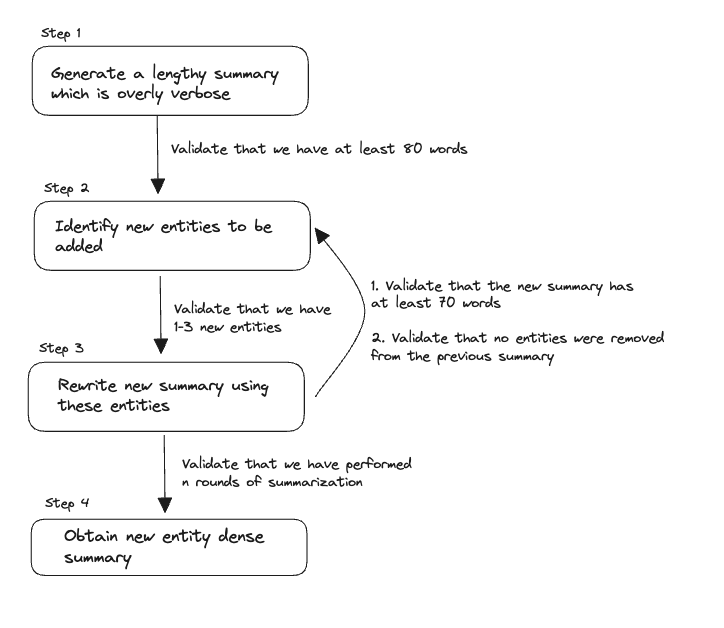
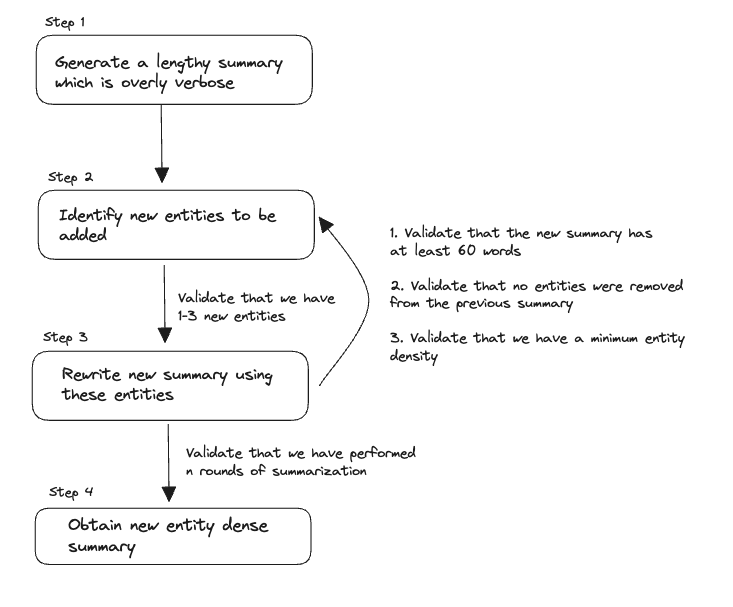
Fixed up new validator and updated article with benchmarks

diff --git a/examples/chain-of-density/chain_of_density.py b/examples/chain-of-density/chain_of_density.py
@@ -3,8 +3,10 @@ from typing import List
 import instructor
 import nltk
 from openai import OpenAI
+import spacy
 
 client = instructor.patch(OpenAI())
+nlp = spacy.load("en_core_web_sm")
 
 
 class InitialSummary(BaseModel):
@@ -47,10 +49,28 @@ class RewrittenSummary(BaseModel):
     )
 
     @field_validator("summary")
+    def min_entity_density(cls, v: str):
+        # We want to make sure we have a minimum density of 0.12 whenever we do a rewrite. This ensures that the summary quality is always going up
+        tokens = nltk.word_tokenize(v)
+        num_tokens = len(tokens)
+
+        # Extract Entities
+        doc = nlp(v)
+        num_entities = len(doc.ents)
+
+        density = num_entities / num_tokens
+        if density < 0.08:
+            raise ValueError(
+                f"The summary of {v} has too few entities. Please regenerate a new summary with more new entities added to it. Remember that new entities can be added at any point of the summary."
+            )
+
+        return v
+
+    @field_validator("summary")
     def min_length(cls, v: str):
         tokens = nltk.word_tokenize(v)
         num_tokens = len(tokens)
-        if num_tokens < 75:
+        if num_tokens < 60:
             raise ValueError(
                 "The current summary is too short. Please make sure that you generate a new summary that is around 80 words long."
             )
@@ -84,7 +104,7 @@ def summarize_article(article: str, summary_steps: int = 3):
         messages=[
             {
                 "role": "system",
-                "content": "Write a summary about the article that is long (4-5 sentences) yet highly non-specific. Use overly, verbose language and fillers(eg.,'this article discusses') to reach ~80 words",
+                "content": "Write a summary about the article that is long (4-5 sentences) yet highly non-specific. Use overly, verbose language and fillers(eg.,'this article discusses') to reach ~80 words. ",
             },
             {"role": "user", "content": f"Here is the Article: {article}"},
             {
@@ -94,25 +114,15 @@ def summarize_article(article: str, summary_steps: int = 3):
         ],
         max_retries=2,
     )
-    prev_summary = None
     summary_chain.append(summary.summary)
     for i in range(summary_steps):
-        missing_entity_message = (
-            []
-            if prev_summary is None
-            else [
-                {
-                    "role": "user",
-                    "content": f"Please include these Missing Entities: {','.join(prev_summary.missing)}",
-                },
-            ]
-        )
         new_summary: RewrittenSummary = client.chat.completions.create(
             model="gpt-4-0613",
             messages=[
                 {
                     "role": "system",
-                    "content": """
+                    "content": f"""
+                Article: {article}
                 You are going to generate an increasingly concise,entity-dense summary of the following article.
 
                 Perform the following two tasks
@@ -127,18 +137,15 @@ def summarize_article(article: str, summary_steps: int = 3):
                 - Never drop entities from the previous summary. If space cannot be made, add fewer new entities.
                 """,
                 },
-                {"role": "user", "content": f"Here is the Article: {article}"},
                 {
                     "role": "user",
                     "content": f"Here is the previous summary: {summary_chain[-1]}",
                 },
-                *missing_entity_message,
             ],
-            max_retries=3,
+            max_retries=5,
             max_tokens=1000,
             response_model=RewrittenSummary,
         )
         summary_chain.append(new_summary.summary)
-        prev_summary = new_summary
 
     return summary_chain

diff --git a/examples/chain-of-density/finetune.py b/examples/chain-of-density/finetune.py
@@ -3,19 +3,36 @@ from chain_of_density import summarize_article
 import csv
 import logging
 import instructor
-from pydantic import BaseModel
+from pydantic import BaseModel, Field
 
 logging.basicConfig(level=logging.INFO)
 
 instructions = instructor.Instructions(
     name="Chain Of Density",
     finetune_format="messages",
-    log_handlers=[logging.FileHandler("summarization.jsonl")],
+    # log handler is used to save the data to a file
+    # you can imagine saving it to a database or other storage
+    # based on your needs!
+    log_handlers=[logging.FileHandler("generated.jsonl")],
 )
 
 
 class GeneratedSummary(BaseModel):
-    summary: str
+    """
+    This represents a highly concise summary that includes as many entities as possible from the original source article.
+
+    An Entity is a real-world object that's assigned a name - for example, a person, country a product or a book title.
+
+    Guidelines
+    - Make every word count
+    - The new summary should be highly dense and concise yet self-contained, eg., easily understood without the Article.
+    - Make space with fusion, compression, and removal of uninformative phrases like "the article discusses"
+    """
+
+    summary: str = Field(
+        ...,
+        description="This represents the final summary generated that captures the meaning of the original article which is as concise as possible. ",
+    )
 
 
 @instructions.distil
@@ -24,7 +41,6 @@ def distil_summarization(text: str) -> GeneratedSummary:
     return GeneratedSummary(summary=summary_chain[-1])
 
 
-# Read in the csv file we have
 with open("test.csv", "r") as file:
     reader = csv.reader(file)
     next(reader)  # Skip the header

diff --git a/docs/blog/posts/chain-of-density.md b/docs/blog/posts/chain-of-density.md
@@ -17,7 +17,7 @@ authors:
 
 > Discover how to distil an interative method like chain of density into a single finetune.
 
-In this article, we'll guide you through implementing the original Chain of Density method using Instructor, then show how to distile a GPT 3.5 model to match GPT-4's iterative summarization capabilities. Using these methods were able to increase latency by 40x, reduce costs by 10x and maintain entity density. Showing massive efficiency gains by finetuning and distiling capabilities into specialized models.
+In this article, we'll guide you through implementing the original Chain of Density method using Instructor, then show how to distile a GPT 3.5 model to match GPT-4's iterative summarization capabilities. Using these methods were able to increase latency by 20x, reduce costs by 50x and maintain entity density. 
 
 By the end you'll end up with a GPT 3.5 model, (fine-tuned using Instructor's great tooling), capable of producing summaries that rival the effectiveness of Chain of Density. As always, all code is readily available in our `examples/chain-of-density` folder in our repo for your reference.
 
@@ -35,7 +35,7 @@ First introduced by Salesforce's AI Research wing in their paper - [From Sparse 
 
 ??? info "Implementation Details"
 
-    Note that our implementation uses a validator to ensure that the rewritten summary has a minimum length rather than a prompt. As a result, we match the original paper on entity count but not entity density.
+    Note that our implementation uses a validator to ensure that the rewritten summary has a minimum length rather than a prompt. We also perform just 3 and not 5 rounds of rewrites, resulting in a lower final entity density.
 
 ### Original Prompt
 
@@ -153,14 +153,19 @@ class RewrittenSummary(BaseModel):
     library, we recommend checking out our previous article on LLM
     validation - [Good LLM Validation is just Good Validation](/instructor/blog/2023/10/23/good-llm-validation-is-just-good-validation/)
 
-Ideally, we'd like for `Missing` to have a length between 1 and 3, `Absent` to be an empty list and for our summary to be around 80 tokens. With `Instructor`, we can implement this logic using native `Pydantic` validators that are simply declared as part of the class itself.
+Ideally, we'd like for `Missing` to have a length between 1 and 3, `Absent` to be an empty list and for our rewritten summaries to keep a minimum entity density. With `Instructor`, we can implement this logic using native `Pydantic` validators that are simply declared as part of the class itself.
 
-```py hl_lines="3"
+```py hl_lines="8 40 44"
+import nltk
+import spacy
+
+nlp = spacy.load("en_core_web_sm")
+
 @field_validator("summary")
 def min_length(cls, v: str):
     tokens = nltk.word_tokenize(v) #(1)!
     num_tokens = len(tokens)
-    if num_tokens < 75:
+    if num_tokens < 60:
         raise ValueError(
             "The current summary is too short. Please make sure that you generate a new summary that is around 80 words long."
         )
@@ -183,10 +188,31 @@ def has_no_absent_entities(cls, absent_entities: List[str]):
             f"Do not omit the following Entities {absent_entity_string} from the new summary"
         )
     return absent_entities
+
+@field_validator("summary")
+    def min_entity_density(cls, v: str):
+        tokens = nltk.word_tokenize(v)
+        num_tokens = len(tokens)
+
+        # Extract Entities
+        doc = nlp(v) #(2)!
+        num_entities = len(doc.ents)
+
+        density = num_entities / num_tokens
+        if density < 0.08: #(3)!
+            raise ValueError(
+                f"The summary of {v} has too few entities. Please regenerate a new summary with more new entities added to it. Remember that new entities can be added at any point of the summary."
+            )
+
+        return v
 ```
 
 1.  Similar to the original paper, we utilize the `NLTK` word tokenizer to count the number of tokens within our generated sentences.
-    We aim for at least 75 tokens in our generated summary so that we don't lose information.
+    We aim for at least 60 tokens in our generated summary so that we don't lose information.
+
+2.  We also use the spaCy library to calculate the entity density of the generated summary. 
+
+3.  We also implement a minimum entity density so that we stay within a given range. 0.08 is arbitrarily chosen in this case
 
 ### Putting it all Together
 
@@ -257,7 +283,7 @@ def summarize_article(article: str, summary_steps: int = 3):
                 },
                 *missing_entity_message,
             ],
-            max_retries=3,
+            max_retries=3, #(4)!
             max_tokens=1000,
             response_model=RewrittenSummary,
         )
@@ -278,6 +304,8 @@ def summarize_article(article: str, summary_steps: int = 3):
 3.  We slightly modify the original system prompt used in the original paper to perform a rewrite of the summary.
     Using `Instructor`, we also get validation of the generated output with our `field_validator`s that we defined above
 
+4.  If you've chosen a value that is larger than 0.08, make sure to increase this value in case you need to do multiple rewrites
+
 This summarization function yields a result which triples the number of entities while mantaining the same number of tokens. We can also see that stylistically, the summary is a lot more natural.
 
 **First Iteration**
@@ -296,20 +324,17 @@ In this section, we'll look into how to fine-tune a GPT 3.5 model so that it is 
 
 Let's first segregate our train and test set so that we don't have any sort of contamination - this corresponds to our `train.csv` and `test.csv` in our [Hugging Face Dataset](https://huggingface.co/datasets/ivanleomk/gpt4-chain-of-density). Now, we just need to import the `Instructions` module from the `Instructor` package which allows you to generate a nicely formatted `.jsonl` file to be used for fine-tuning
 
-```py hl_lines="2 9 13-20 25 28"
+```py hl_lines="2 9 11-18 37 40"
 from typing import List
 from chain_of_density import summarize_article #(1)!
 import csv
 import logging
 import instructor
-from itertools import islice
 from pydantic import BaseModel
 
-client = instructor.patch(OpenAI())
+logging.basicConfig(level=logging.INFO) #(2)!
 
-logging.basicConfig(level=logging.INFO)
-
-instructions = instructor.Instructions( #(2)!
+instructions = instructor.Instructions( #(3)!
     name="Chain Of Density",
     finetune_format="messages",
     # log handler is used to save the data to a file
@@ -319,17 +344,31 @@ instructions = instructor.Instructions( #(2)!
 )
 
 class GeneratedSummary(BaseModel):
-    summary: str
+    """
+    This represents a highly concise summary that includes as many entities as possible from the original source article.
 
-@instructions.distil #(3)!
+    An Entity is a real-world object that's assigned a name - for example, a person, country a product or a book title.
+
+    Guidelines
+    - Make every word count
+    - The new summary should be highly dense and concise yet self-contained, eg., easily understood without the Article.
+    - Make space with fusion, compression, and removal of uninformative phrases like "the article discusses"
+    """
+
+    summary: str = Field(
+        ...,
+        description="This represents the final summary generated that captures the meaning of the original article which is as concise as possible. ",
+    )
+
+@instructions.distil #(4)!
 def distil_summarization(text: str) -> GeneratedSummary:
     summary_chain: List[str] = summarize_article(text)
-    return GeneratedSummary(summary=summary_chain[-1]) #(4)!
+    return GeneratedSummary(summary=summary_chain[-1]) #(5)!
 
 with open("train.csv", "r") as file:
     reader = csv.reader(file)
     next(reader)  # Skip the header
-    for index, (article, summary) in enumerate(reader):
+    for article, summary in reader:
         # Run Distillisation to generate the values
         distil_summarization(article)
 ```
@@ -337,13 +376,15 @@ with open("train.csv", "r") as file:
 1.  In this example, we're using the summarize_article that we defined up above. We saved it in a local file called `chain_of_density.py`,
     hence the import
 
-2.  We instantiate a `Instruction` object which will help us handle the conversion of our function calls into a valid `.jsonl` file. We also define
+2. We also need to configure logging at the `INFO` level. This is very important, if this is not configured, your output will not be generated.
+
+3.  We instantiate a `Instruction` object which will help us handle the conversion of our function calls into a valid `.jsonl` file. We also define
     the name of the `.jsonl` file in the `log_handlers` parameter
 
-3.  We add in an `instructions.distil` annotation so that we automatically capture the input and output of the function we'd like to
+4.  We add in an `instructions.distil` annotation so that we automatically capture the input and output of the function we'd like to
     fine-tune our model to output
 
-4.  We return a `Pydantic` object which matches the annotation that we use on our function. Note that we must specify a `Pydantic` object to
+5.  We return a `Pydantic` object which matches the annotation that we use on our function. Note that we must specify a `Pydantic` object to
     be returned when using the `instructions.distil` annotation
 
 !!! warning "Rate Limiting"
@@ -380,7 +421,7 @@ With that, you've now got your own fine-tuned model ready to go and serve data i
 
 ## Results and Benchmarks
 
-We fine-tuned a total of 3 different models, giving each 20, 50 and 100 samples respectively to see if more data improved the models. We then compared the output of these fine tuned models to GPT-4 and the newly released GPT-4-Turbo to see how they match up.
+We fine-tuned a total of 3 different models, giving each 20, 50 and 76 samples respectively to see if more data improved the models. We then compared the output of these fine tuned models to GPT-4 and GPT-3 summaries that were generated using chain-of-density methods.
 
 We'll be comparing these models in three main ways
 
@@ -392,26 +433,35 @@ We used a total of 20 articles as a validation set which our fine tuned models h
 
 | Model               | Mean Latency (s) | Mean Entity Count | Mean Entity Density | Tokens |
 | ------------------- | ---------------- | ----------------- | ------------------- | ------ |
-| GPT-4               | 87.2             | 10.15             | 0.116               | 86.65  |
-| GPT-4-Turbo         | 41.1             | 10.05             | 0.116               | 87.25  |
-| 3.5 Finetuned (20)  | 2.05             | 10.9              | 0.125               | 87.4   |
-| 3.5 Finetuned (50)  | 2.00             | 10.85             | 0.114               | 94.95  |
-| 3.5 Finetuned (100) | 2.09             | 10.10             | 0.115               | 88     |
+| GPT-4 (COD)         | 49.5             | 11.3              | 0.138               | 81.65  |
+| GPT-3 (COD)         | 145.94           | 11.05             | 0.105               | 105.7  |
+| 3.5 Finetuned (20)  | 2.25             | 14.7              | 0.154               | 95.45  |
+| 3.5 Finetuned (50)  | 2.09             | 12.4              | 0.140               | 88.35  |
+| 3.5 Finetuned (76)  | 2.17             | 11.65             | 0.142               | 82.05  |
+
+??? notes "Finetuning Datasets"
+
+    For our finetuned models, we did a few optimisations to raise the performance.
+    
+    We only included summaries that had a minimum density of 0.15 in the dataset, took the summary in the entire chain with the highest density as the final one, forced every regenerated summary to have a minimum density of 0.12 and regenerated summaries up to three times if they didn't meet the summaries. **This is a much more expensive strategy and can cost up to 2.5x or more what we do in this tutorial**
+
+    This resulted in the total cost of $63.46 to generate just 75 examples due to the stringent requirements, translating to about $0.85 per generated summary example.
 
 Using the OpenAI Usage Dashboard, we can calculate the cost of generating 20 summaries as seen below.
 
-| Model               | Training Cost ($) | Inference Cost ($) | Tokens Used | Total Cost ($) |
+| Model               | Training Cost ($) | Inference Cost ($) | Tokens Used | Total Cost ($) | 
 | ------------------- | ----------------- | ------------------ | ----------- | -------------- |
-| 3.5 Finetuned (20)  | 0.66              | 0.153              | 43,612      | 0.817          |
-| 3.5 Finetuned (50)  | 1.11              | 0.153              | 45,128      | 1.266          |
-| 3.5 Finetuned (100) | 2.32              | 0.153              | 44,925      | 2.481          |
-| GPT-4 Turbo         | -                 | 1.41               | 265,397     | 1.41           |
-| GPT-4               | -                 | 7.63               | 238,290     | 7.69           |
+| 3.5 Finetuned (20)  | 0.664             | 0.207              | 56,573      | 0.817          |
+| 3.5 Finetuned (50)  | 1.368             | 0.165              | 49,057      | 1.266          |
+| 3.5 Finetuned (76)  | 1.824             | 0.174              | 51,583      | 2.481          |
+| GPT-4 (COD)         | -                 | 12.9               | 409,062     | 12.9           |
+| GPT-3 (COD)         | -                 | 0.45               | 290,164     | 0.45           |
 
-Here, `GPT-4-Turbo` has an approximate inference cost of `$0.07` per summary while our finetuned models have an inference cost of `$0.008` per summary, **which ~ 10x cheaper.**
+
+Here, we can see that `GPT-4` has an approximate inference cost of `0.65` per summary while our finetuned models have an inference cost of `0.0091` per summary which is ~ `72x` cheaper. 
 
 ## Conclusions
 
-Finetuning this iterative method was 20-40x faster while keeping entity density relatively constant. Our token costs also dropped by almost 10x when compared against `GPT-4 Turbo` and by almost 150x when compared against GPT-4, resulting in massive efficiency gains by finetuning and distiling capabilities into specialized models.
+Finetuning this iterative method was 20-40x faster while improving overall performance, resulting in massive efficiency gains by finetuning and distilling capabilities into specialized models.
 
 We've seen how `Instructor` can make your life easier, from data modeling to distilation and finetuning. If you enjoy the content or want to try out `instructor` check out the [github](https://github.com/jxnl/instructor) and don't forget to give us a star!
